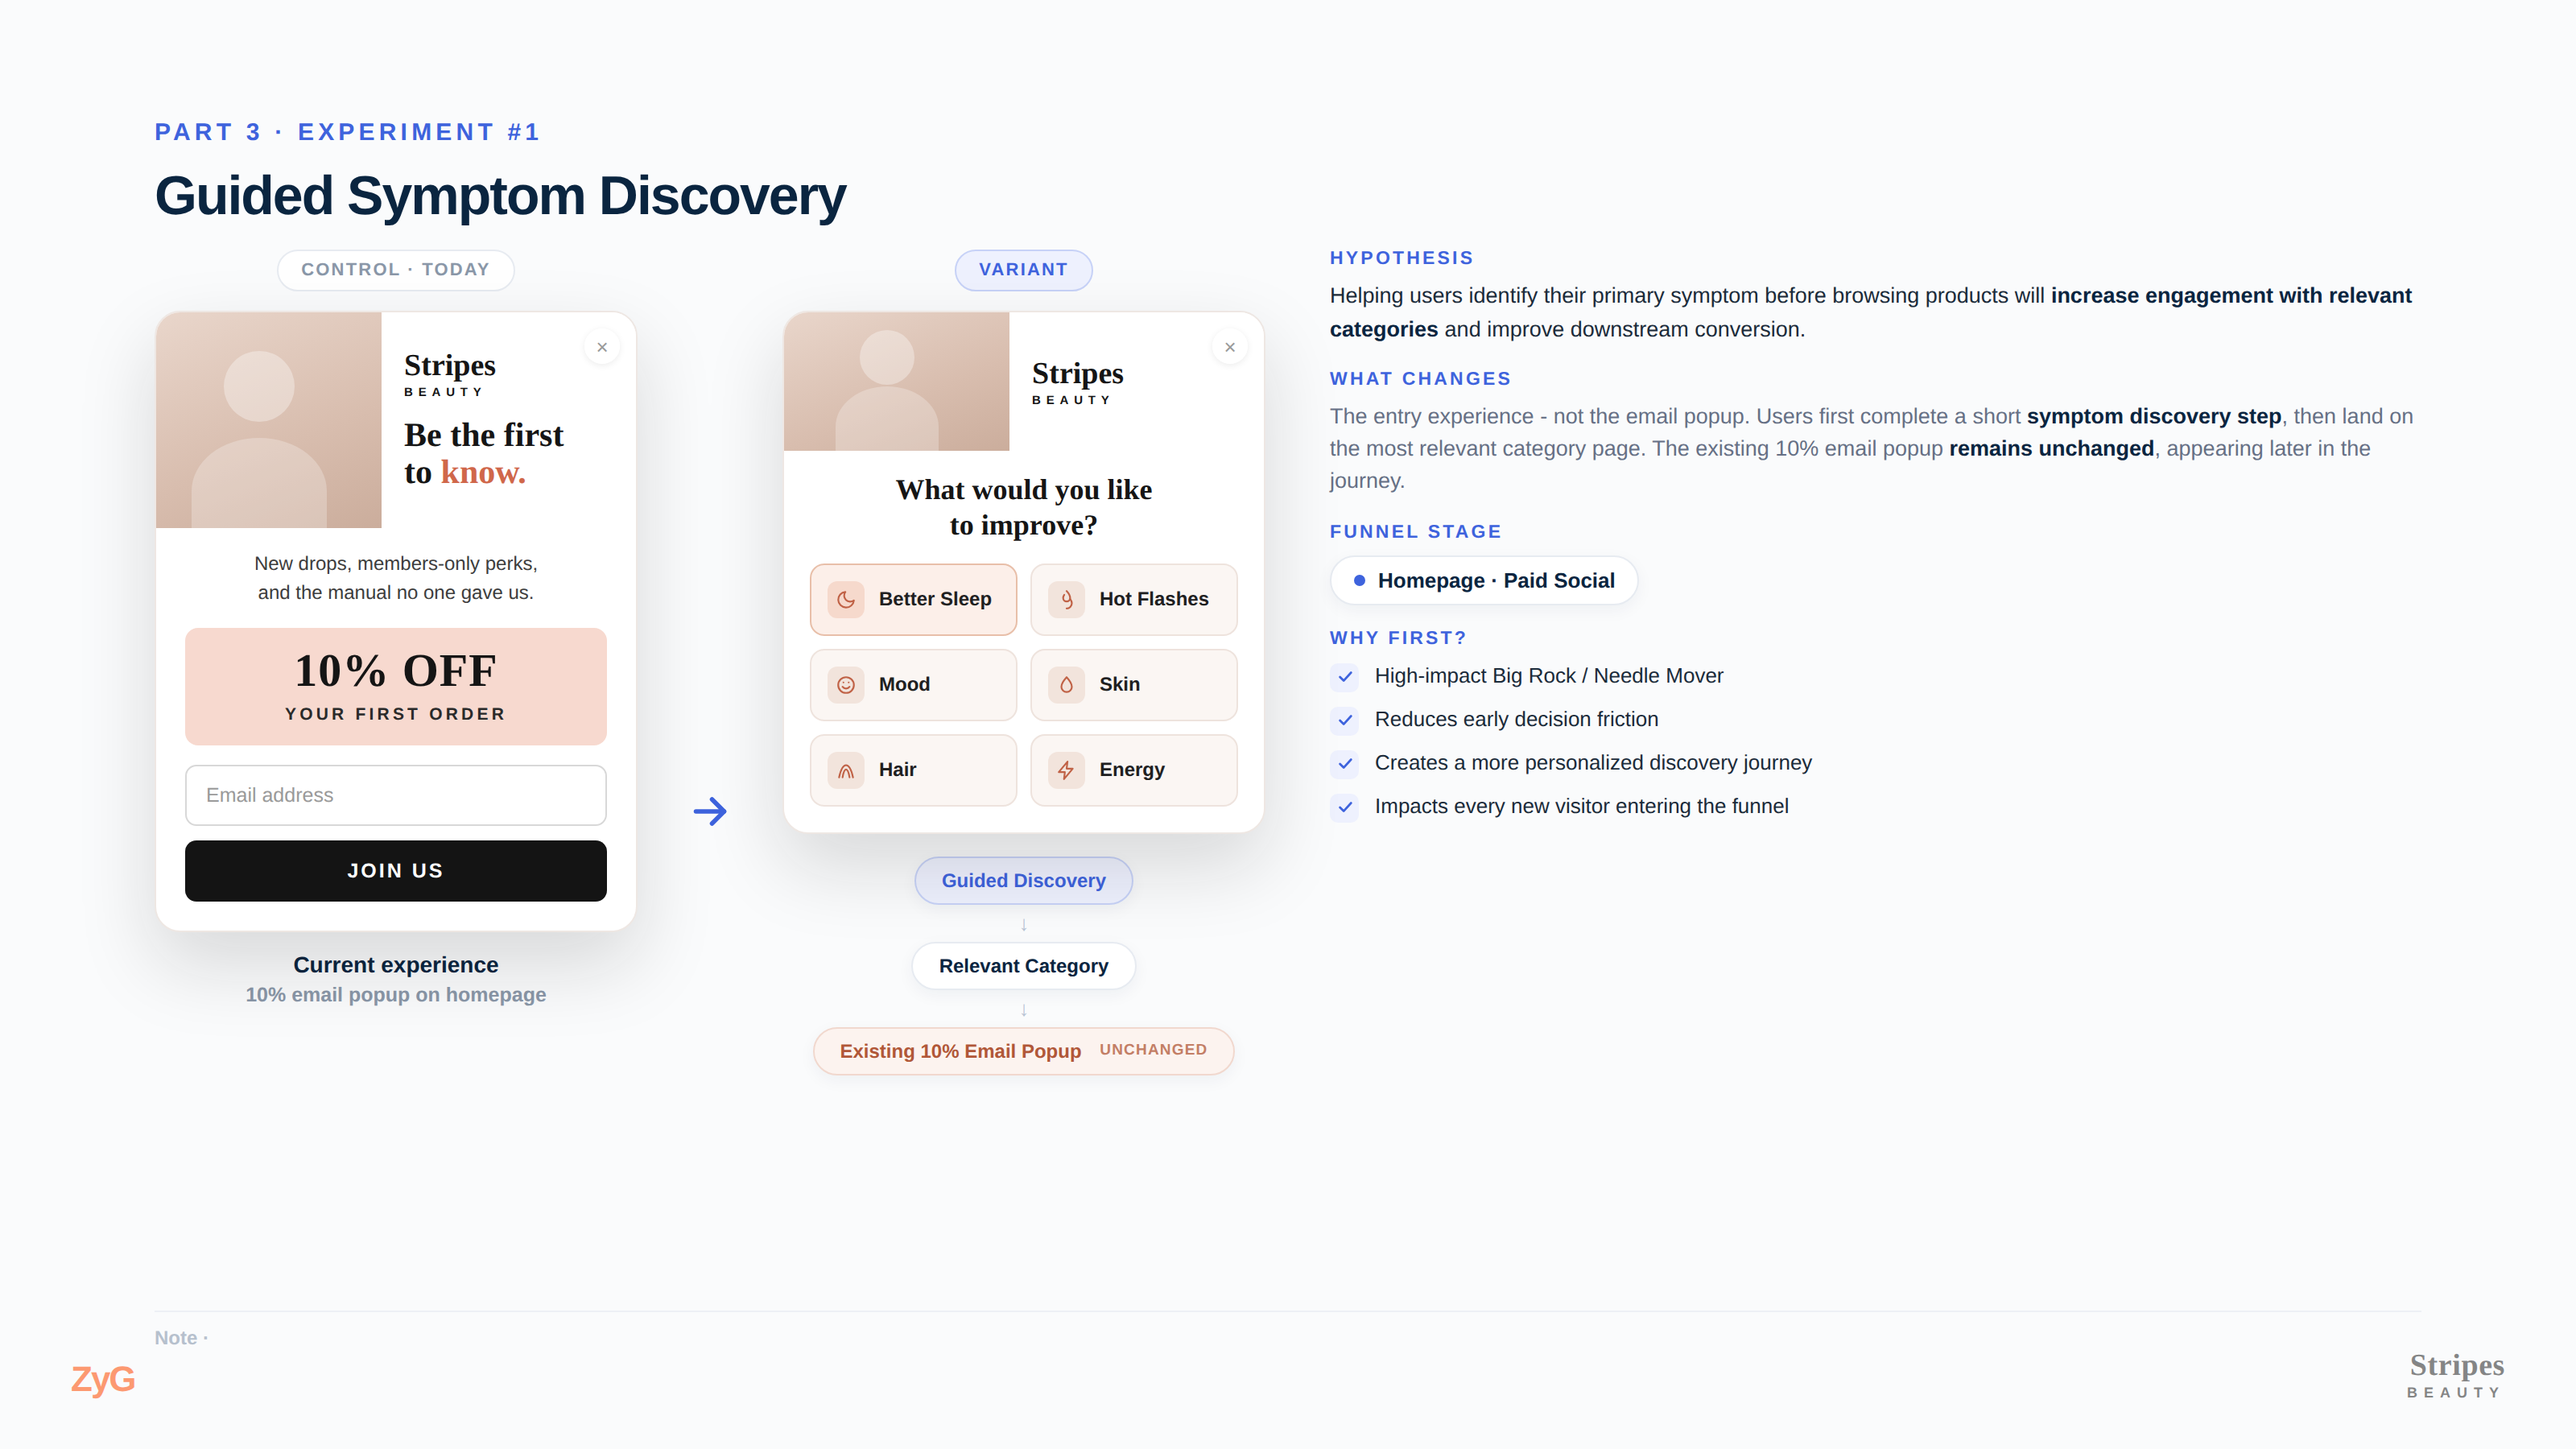
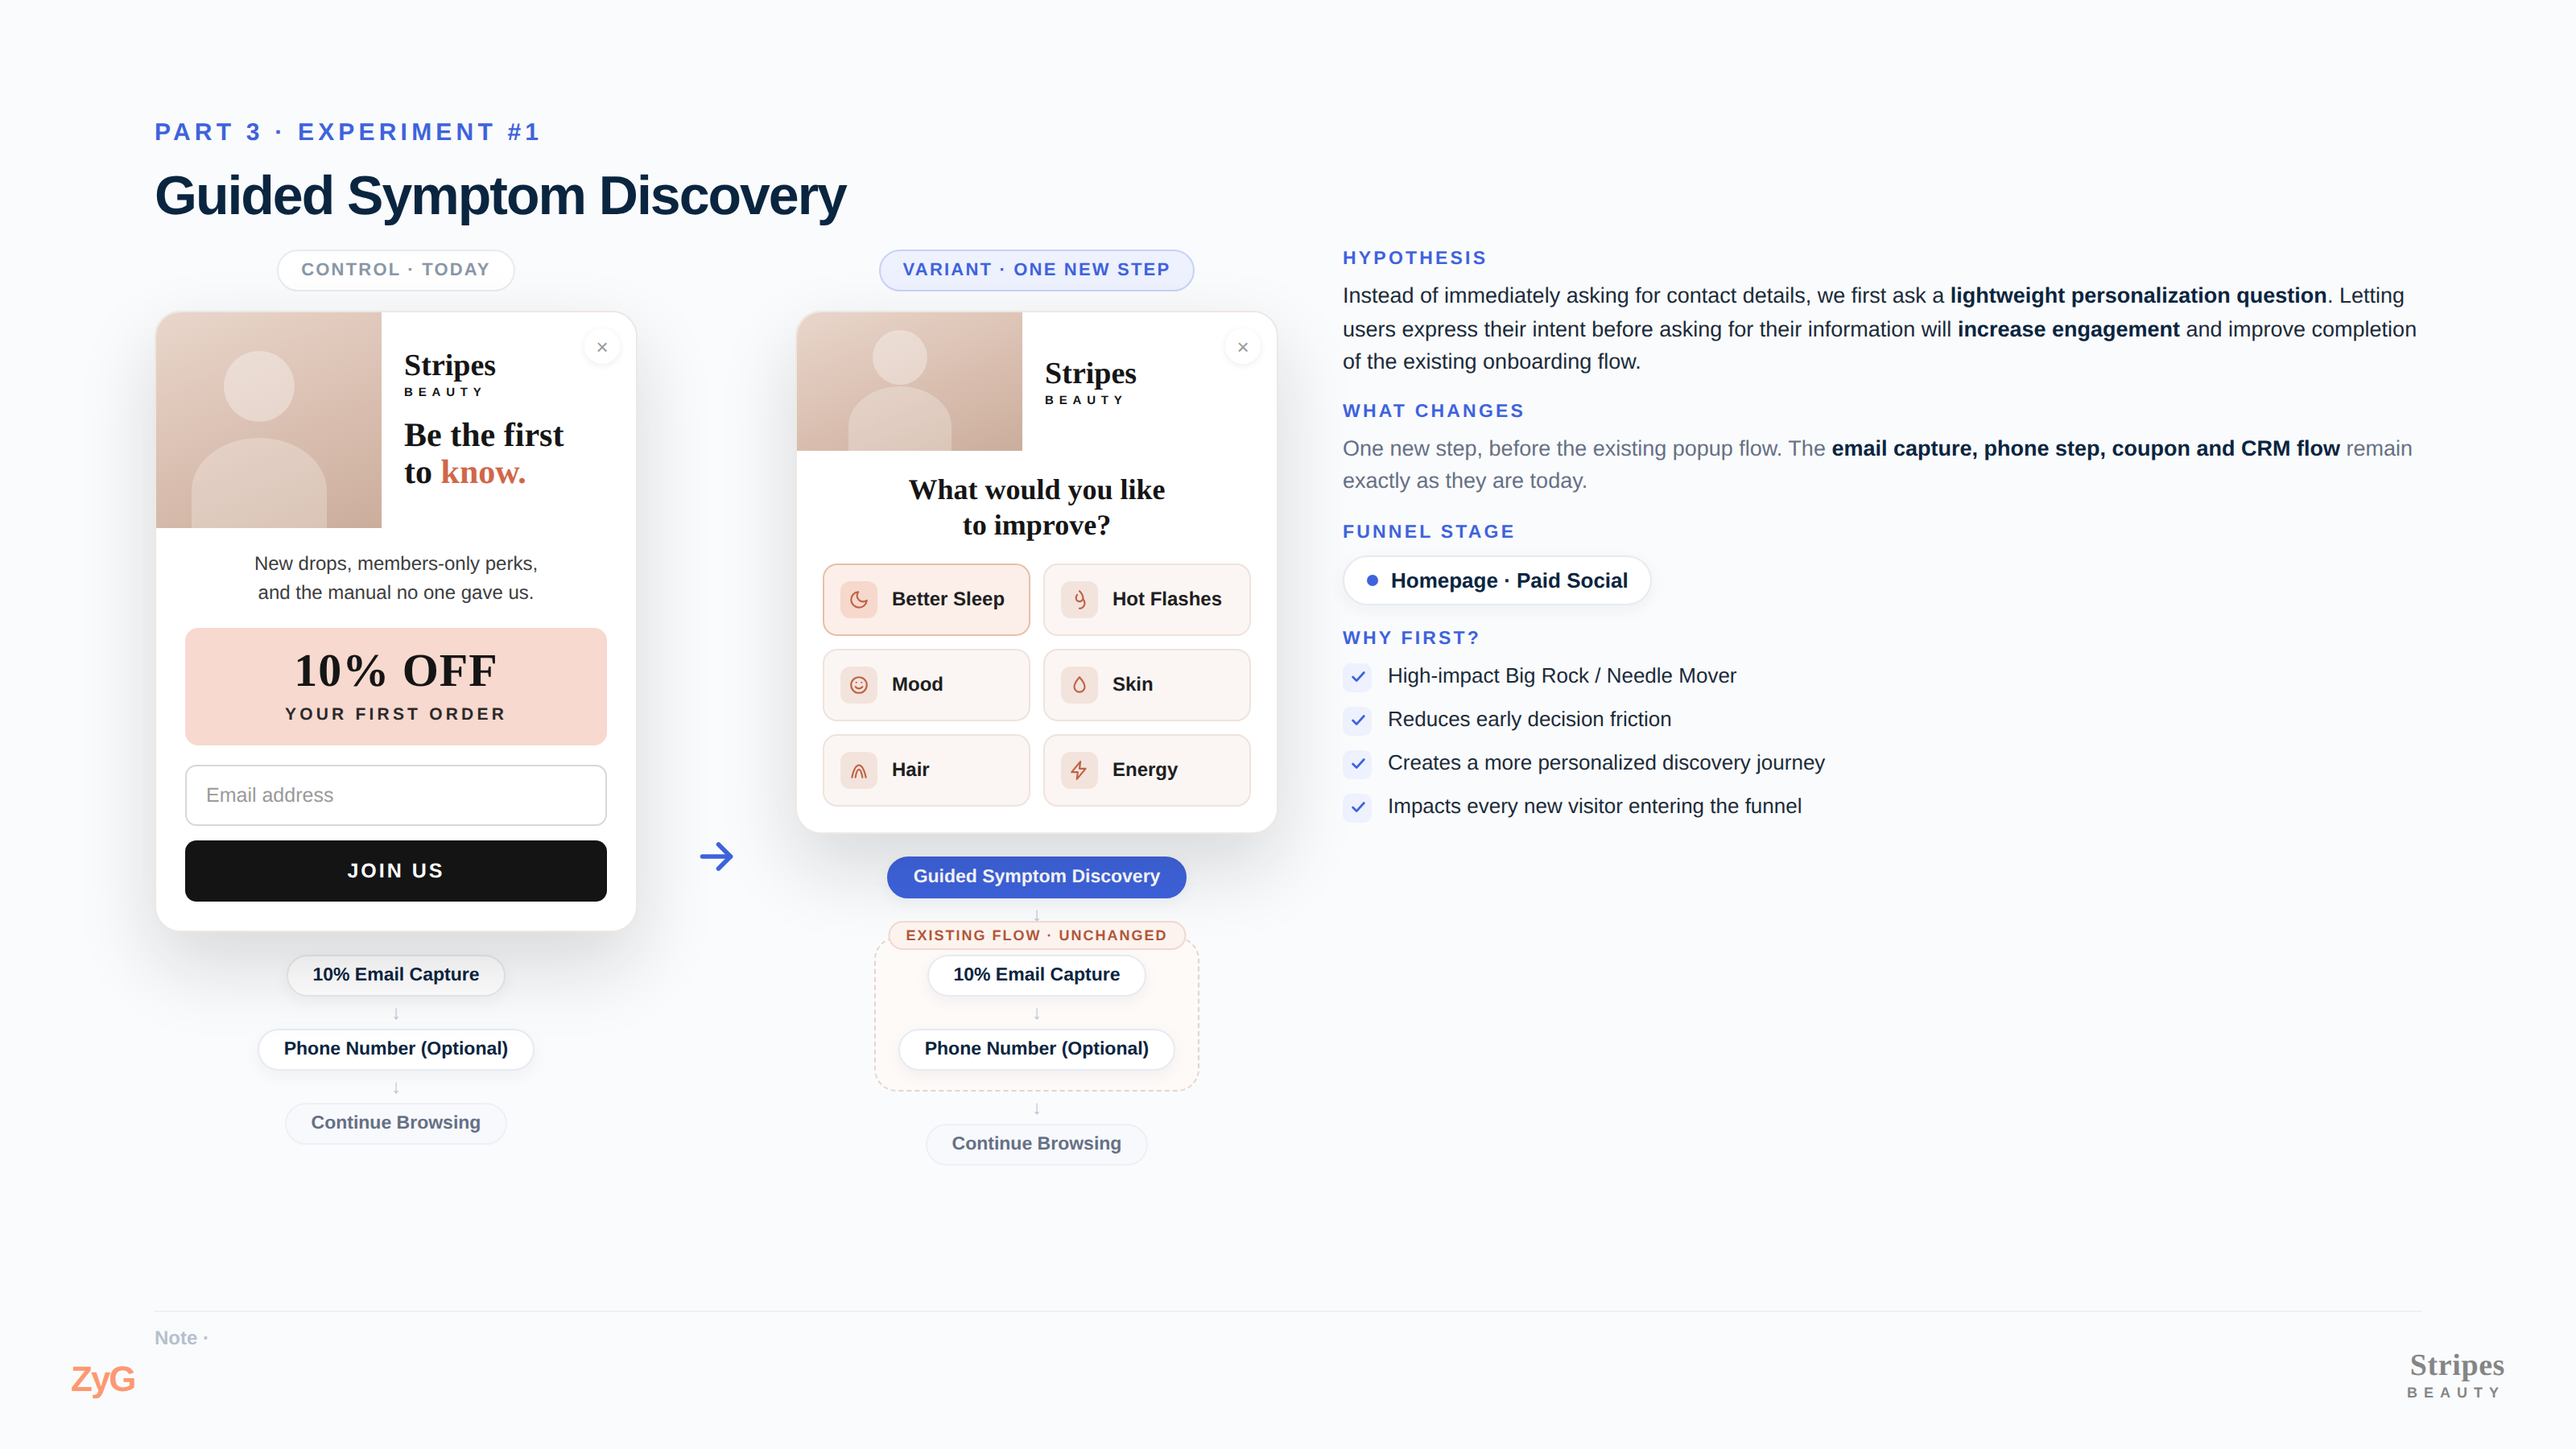
Exp 1: correct experiment - one new step before existing popup flow
Remove category-page framing entirely. Both mockups get parallel journey
chains: Control (email -> phone -> browse) vs Variant (Guided Symptom
Discovery + dashed 'existing flow unchanged' container). New hypothesis and
what-changes copy.

Claude-Session: https://claude.ai/code/session_01GoAG3ySswQXo2H1hh5EwTk

diff --git a/diagrams/slides/p3-02-exp1.html b/diagrams/slides/p3-02-exp1.html
@@ -3,12 +3,10 @@
   .stage{display:flex;gap:40px;margin-top:14px;flex:1;align-items:flex-start;}
 
   /* ---- left: comparison ---- */
-  .mocks{display:flex;gap:30px;align-items:flex-start;}
+  .mocks{display:flex;gap:34px;align-items:flex-start;}
   .mcol{display:flex;flex-direction:column;align-items:center;}
   .steptag{font-size:11px;font-weight:700;letter-spacing:1.1px;text-transform:uppercase;color:var(--faint);background:#fff;border:1px solid var(--line);border-radius:999px;padding:6px 14px;margin-bottom:12px;}
   .steptag.new{color:var(--blue);border-color:#C7D2F7;background:var(--blue-soft);}
-  .cap{text-align:center;margin-top:11px;font-size:12.5px;font-weight:600;color:var(--faint);line-height:1.35;}
-  .cap b{display:block;font-size:14px;color:var(--navy);font-weight:700;margin-bottom:1px;}
   .jarrow{align-self:center;color:var(--blue);margin-top:190px;flex-shrink:0;}
   .jarrow svg{width:30px;height:30px;}
 
@@ -49,13 +47,15 @@
   .opt .ic svg{width:13px;height:13px;}
   .opt .lb{font-size:12px;font-weight:600;color:#20201f;}
 
-  /* mini journey flow under variant */
-  .flow{margin-top:14px;display:flex;flex-direction:column;align-items:center;gap:5px;}
-  .fchip{display:flex;align-items:center;gap:8px;font-size:12px;font-weight:700;border-radius:999px;padding:7px 16px;border:1px solid var(--line);background:#fff;color:var(--navy);box-shadow:0 3px 10px rgba(16,42,77,.05);}
-  .fchip.new{background:var(--blue-soft);border-color:#C7D2F7;color:var(--blue);}
-  .fchip.keep{background:#FCF3EF;border-color:#F1D8CE;color:#B15738;}
-  .fchip .s{font-size:9.5px;font-weight:700;letter-spacing:.6px;opacity:.75;}
-  .fdown{color:#B7C2D3;font-size:13px;font-weight:700;line-height:1;}
+  /* journey chips */
+  .flow{margin-top:14px;display:flex;flex-direction:column;align-items:center;gap:4px;width:300px;}
+  .fchip{display:flex;align-items:center;gap:7px;font-size:11.5px;font-weight:700;border-radius:999px;padding:6px 15px;border:1px solid var(--line);background:#fff;color:var(--navy);box-shadow:0 3px 10px rgba(16,42,77,.05);}
+  .fchip.new{background:var(--blue);border-color:var(--blue);color:#fff;}
+  .fchip.mut{color:var(--muted);background:#F7F9FC;border-color:var(--line-2);box-shadow:none;font-weight:600;}
+  .fdown{color:#B7C2D3;font-size:12px;font-weight:700;line-height:1;}
+  .existing{margin-top:4px;border:1.5px dashed #E3D5CC;border-radius:14px;padding:10px 14px 12px;display:flex;flex-direction:column;align-items:center;gap:4px;position:relative;background:#FDFAF8;}
+  .existing .exlab{font-size:9px;font-weight:700;letter-spacing:1px;text-transform:uppercase;color:#B15738;background:#FCF3EF;border:1px solid #F1D8CE;border-radius:999px;padding:3px 10px;position:absolute;top:-11px;left:50%;transform:translateX(-50%);white-space:nowrap;}
+  .existing .fchip{background:#fff;}
 
   /* ---- right: details ---- */
   .rail{flex:1;min-width:0;}
@@ -102,14 +102,20 @@
             <div class="btn">JOIN US</div>
           </div>
         </div>
-        <div class="cap"><b>Current experience</b>10% email popup on homepage</div>
+        <div class="flow">
+          <div class="fchip">10% Email Capture</div>
+          <div class="fdown">&darr;</div>
+          <div class="fchip">Phone Number (Optional)</div>
+          <div class="fdown">&darr;</div>
+          <div class="fchip mut">Continue Browsing</div>
+        </div>
       </div>
 
       <div class="jarrow"><svg viewBox="0 0 24 24" fill="none" stroke="currentColor" stroke-width="2.2" stroke-linecap="round" stroke-linejoin="round"><path d="M5 12h14"/><path d="M13 6l6 6-6 6"/></svg></div>
 
       <!-- VARIANT -->
       <div class="mcol">
-        <div class="steptag new">Variant</div>
+        <div class="steptag new">Variant &middot; one new step</div>
         <div class="pop">
           <div class="x">&times;</div>
           <div class="ban slim">
@@ -149,11 +155,16 @@
           </div>
         </div>
         <div class="flow">
-          <div class="fchip new">Guided Discovery</div>
+          <div class="fchip new">Guided Symptom Discovery</div>
           <div class="fdown">&darr;</div>
-          <div class="fchip">Relevant Category</div>
+          <div class="existing">
+            <span class="exlab">Existing flow &middot; unchanged</span>
+            <div class="fchip">10% Email Capture</div>
+            <div class="fdown">&darr;</div>
+            <div class="fchip">Phone Number (Optional)</div>
+          </div>
           <div class="fdown">&darr;</div>
-          <div class="fchip keep">Existing 10% Email Popup&nbsp;<span class="s">UNCHANGED</span></div>
+          <div class="fchip mut">Continue Browsing</div>
         </div>
       </div>
     </div>
@@ -162,11 +173,11 @@
     <div class="rail">
       <div class="blk">
         <div class="bl">Hypothesis</div>
-        <p>Helping users identify their primary symptom before browsing products will <b>increase engagement with relevant categories</b> and improve downstream conversion.</p>
+        <p>Instead of immediately asking for contact details, we first ask a <b>lightweight personalization question</b>. Letting users express their intent before asking for their information will <b>increase engagement</b> and improve completion of the existing onboarding flow.</p>
       </div>
       <div class="blk">
         <div class="bl">What changes</div>
-        <p class="mut">The entry experience - not the email popup. Users first complete a short <b>symptom discovery step</b>, then land on the most relevant category page. The existing 10% email popup <b>remains unchanged</b>, appearing later in the journey.</p>
+        <p class="mut">One new step, before the existing popup flow. The <b>email capture, phone step, coupon and CRM flow</b> remain exactly as they are today.</p>
       </div>
       <div class="blk">
         <div class="bl">Funnel stage</div>
